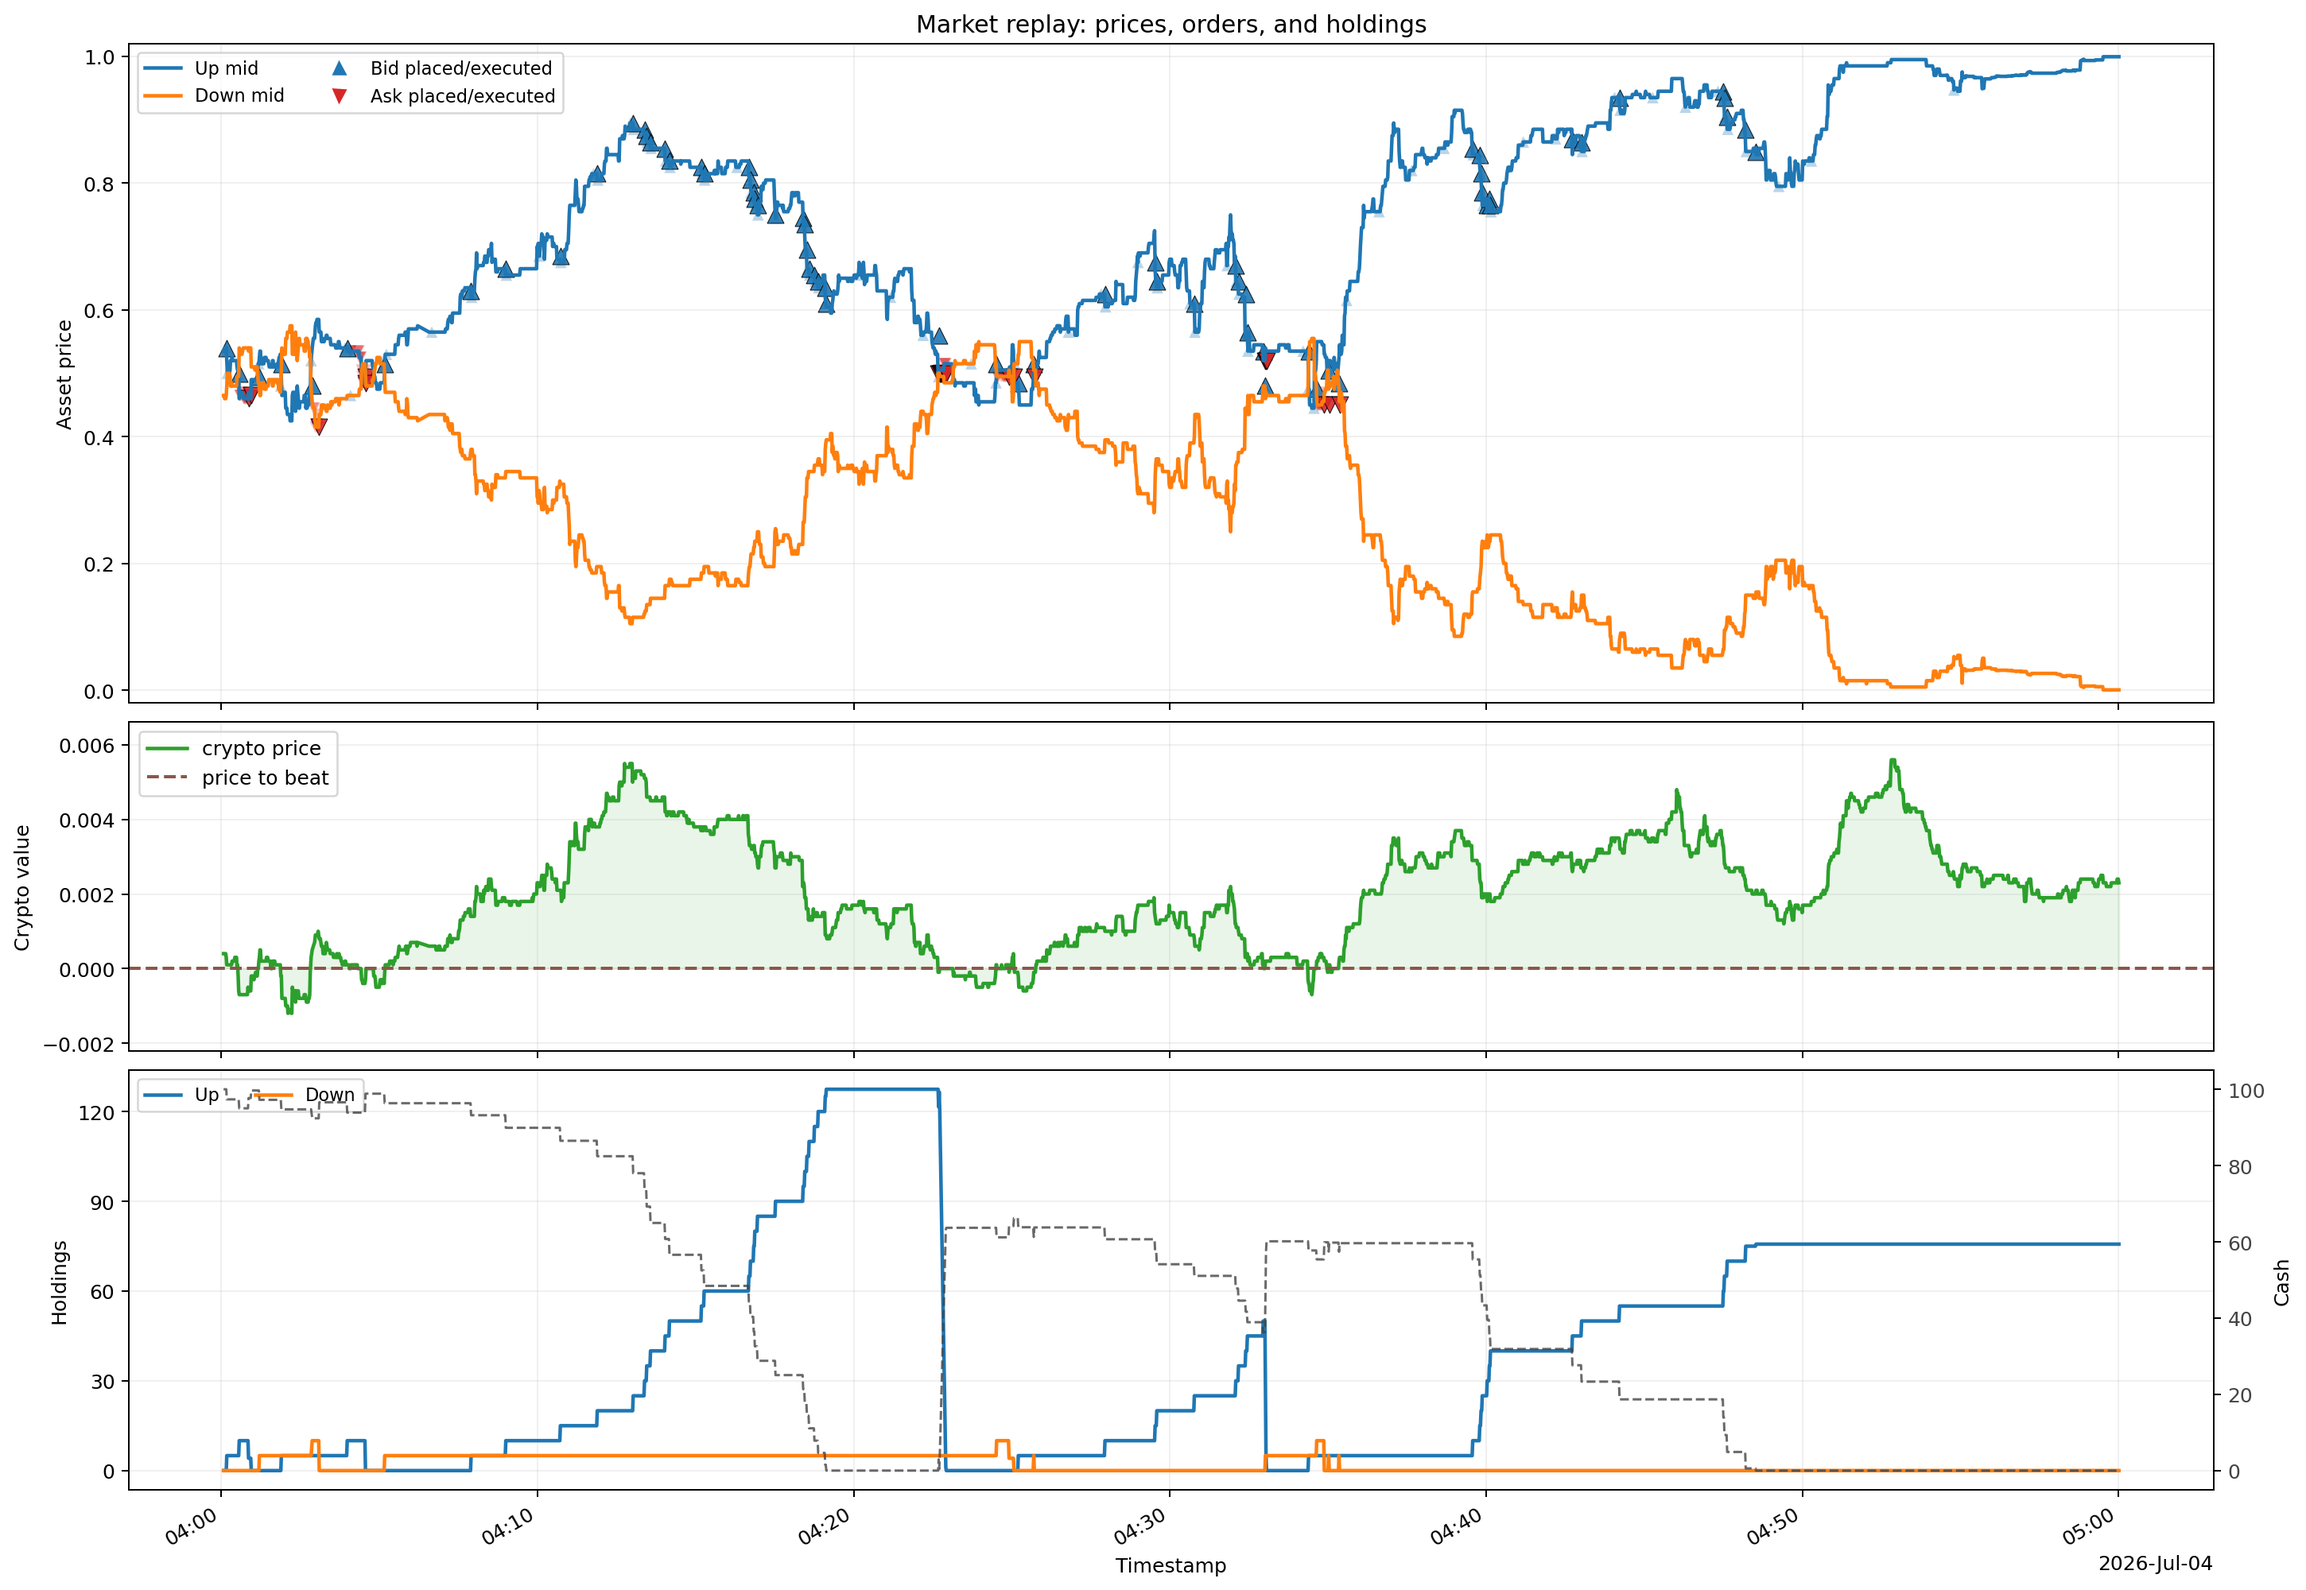
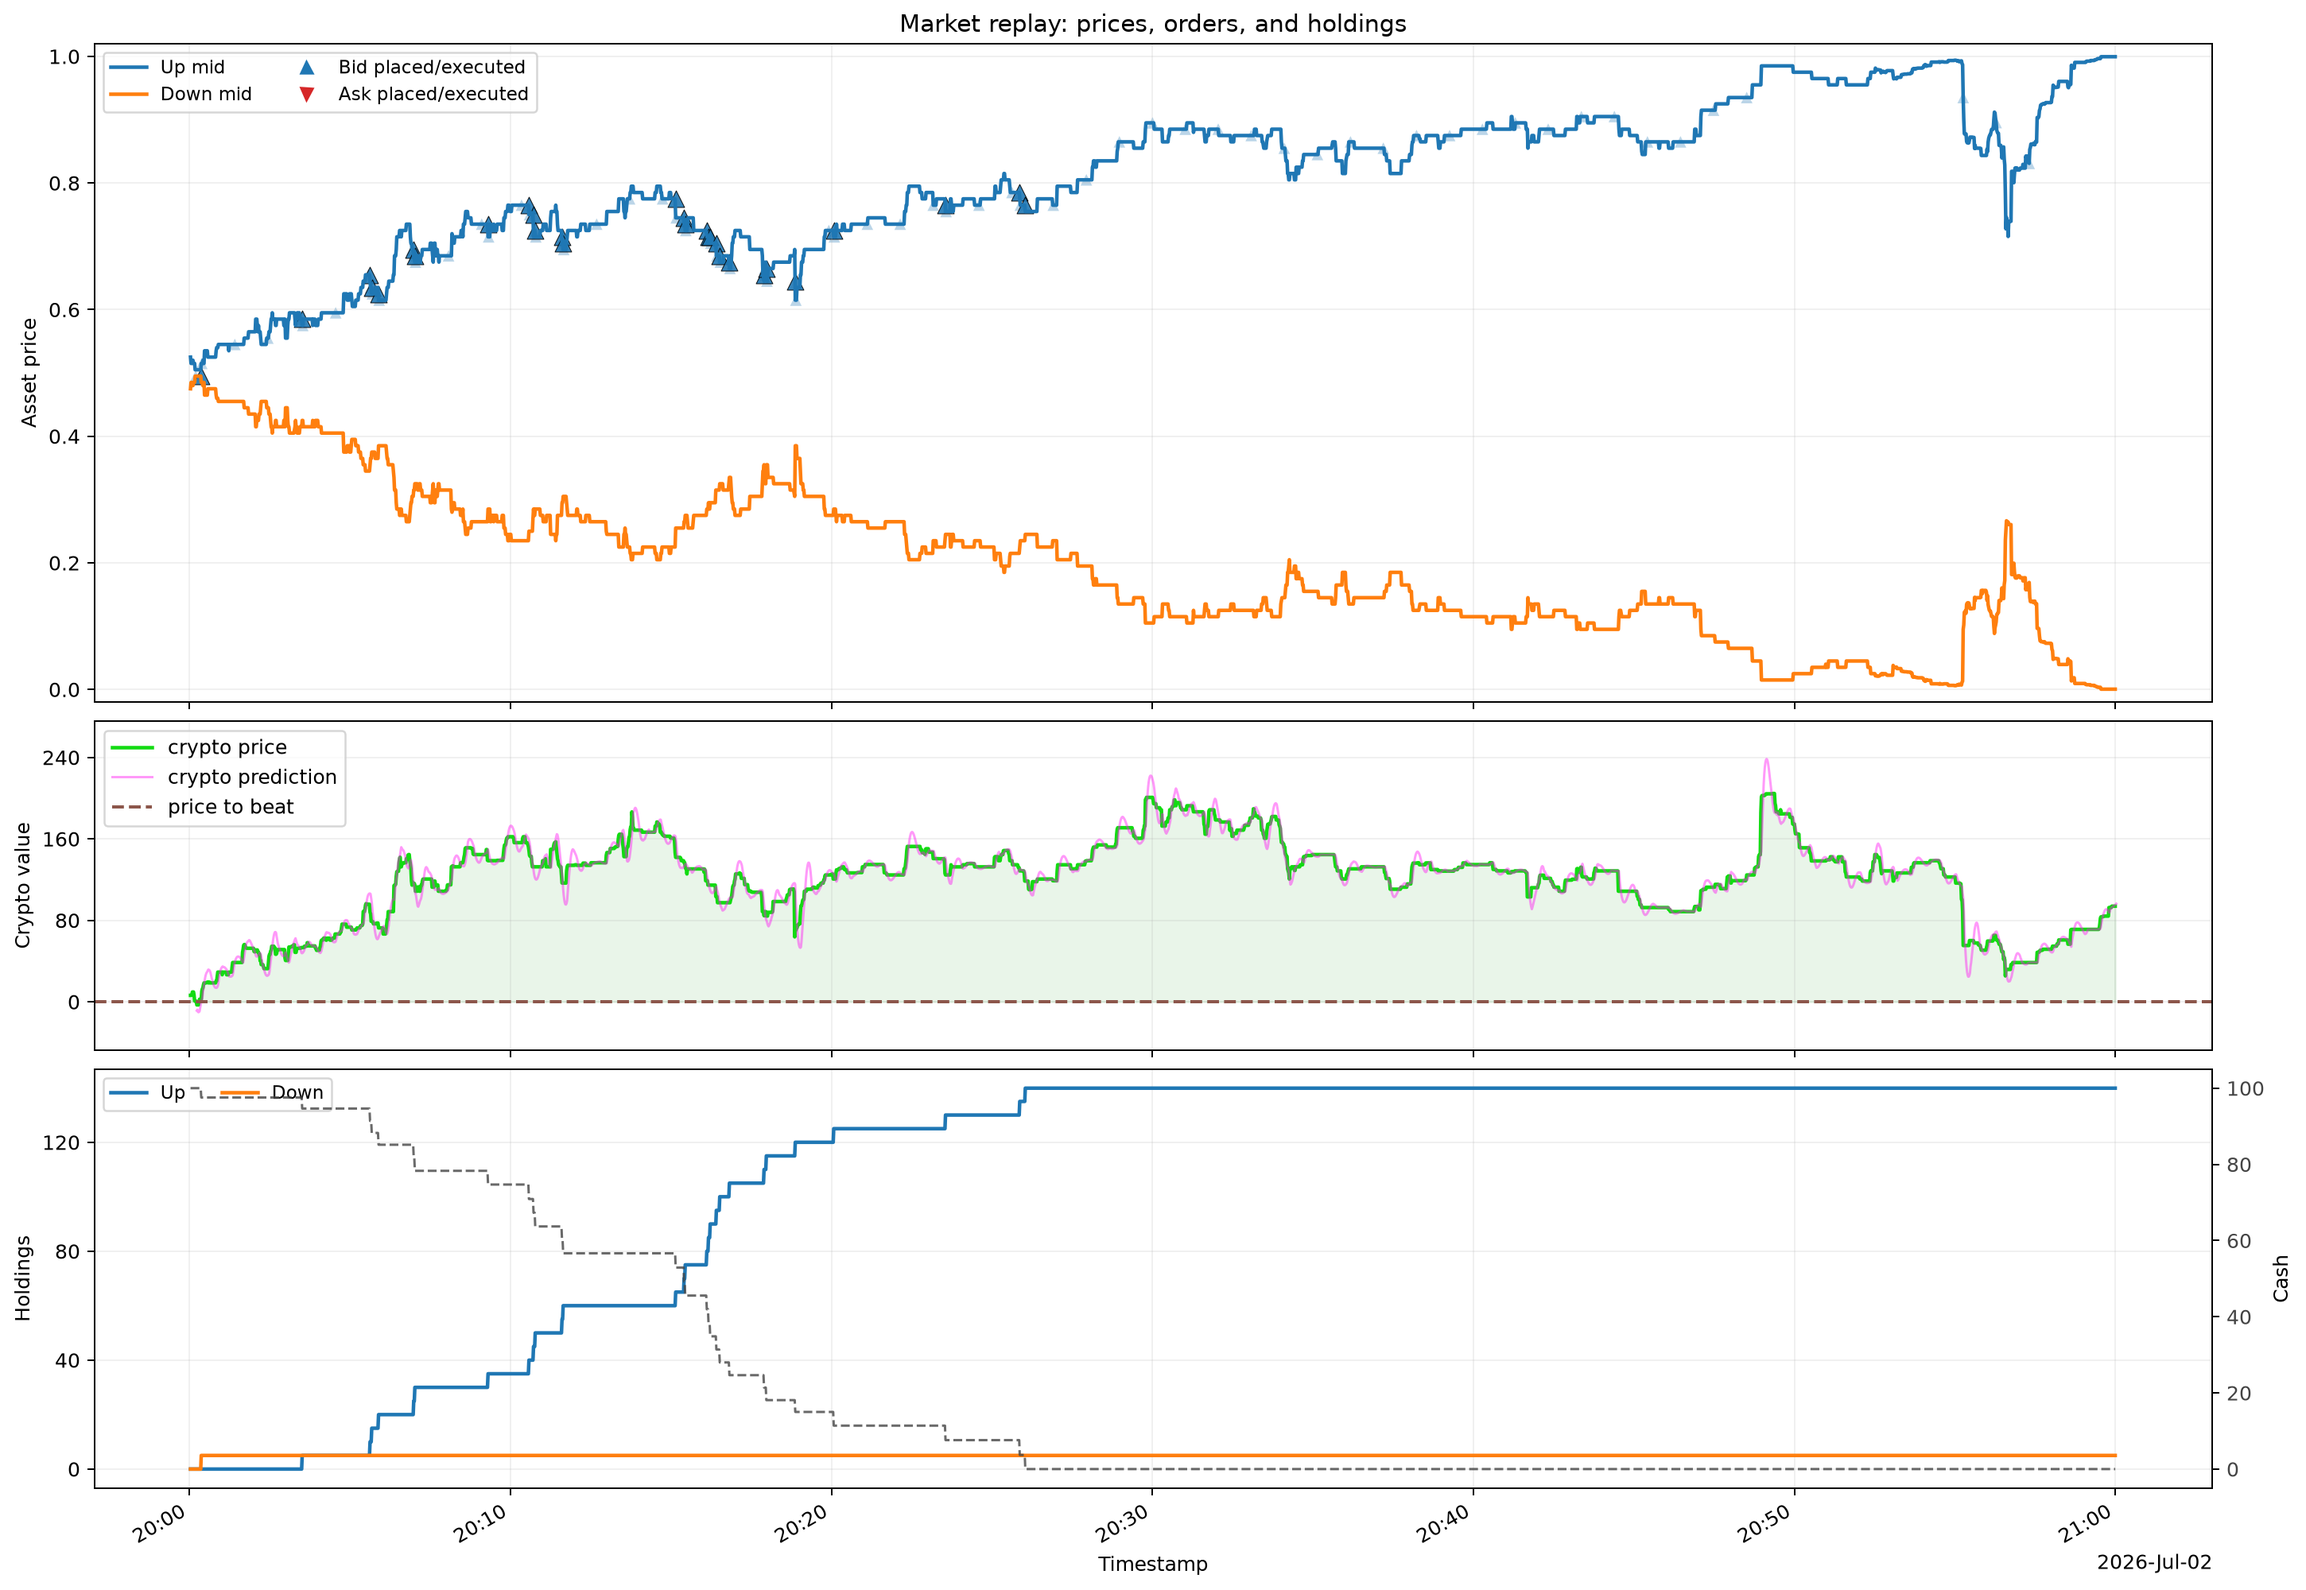
prediction added to graph

diff --git a/analytics/graph_drawer.py b/analytics/graph_drawer.py
@@ -1,7 +1,7 @@
 from __future__ import annotations
 
 from collections import defaultdict
-from datetime import datetime
+from datetime import datetime, timezone
 from pathlib import Path
 from typing import Any
 
@@ -25,7 +25,7 @@ def _coerce_number(value):
 	return value
 
 
-def _series_from_points(points, value_key="price"):
+def _series_from_points(points, value_key):
 	timestamps = []
 	values = []
 	for index, point in enumerate(points or []):
@@ -45,21 +45,33 @@ def _series_from_points(points, value_key="price"):
 
 
 def _timestamp_to_datetime(timestamp):
-	if timestamp is None:
-		return None
-	if isinstance(timestamp, datetime):
-		return timestamp
-	if isinstance(timestamp, (int, float)):
-		if abs(timestamp) >= 1_000_000_000_000:
-			return datetime.fromtimestamp(timestamp / 1000.0)
-		return datetime.fromtimestamp(timestamp)
-	if isinstance(timestamp, str):
-		try:
-			parsed = float(timestamp)
-			return _timestamp_to_datetime(parsed)
-		except ValueError:
-			return timestamp
-	return timestamp
+    if timestamp is None:
+        return None
+
+    if isinstance(timestamp, datetime):
+        return timestamp
+
+    if isinstance(timestamp, (int, float)):
+        if abs(timestamp) >= 1_000_000_000_000:
+            return datetime.fromtimestamp(timestamp / 1000)
+        return datetime.fromtimestamp(timestamp)
+
+    if isinstance(timestamp, str):
+        # unix timestamp stored as string
+        try:
+            return _timestamp_to_datetime(float(timestamp))
+        except ValueError:
+            pass
+
+        # ISO8601
+        try:
+            return datetime.fromisoformat(
+                timestamp.replace("Z", "+00:00")
+            )
+        except ValueError:
+            pass
+
+    raise ValueError(f"Unsupported timestamp: {timestamp!r}")
 
 
 def _set_dynamic_ylim(axis, values):
@@ -190,16 +202,27 @@ def draw_graph(analytics: dict, output_path: str | Path | None = None, show: boo
 
 	crypto_timestamps, crypto_values = _series_from_points(crypto_prices, value_key="price")
 	relative_crypto_values = [value - price_to_beat for value in crypto_values]
+	crypto_prediction_timestamps, crypto_prediction_values = _series_from_points(analytics.get("past_crypto_predictions", []), value_key="prediction")
+	crypto_prediction_values_relative = [value for value in crypto_prediction_values]
+
 	if crypto_timestamps and crypto_values:
 		ax_crypto.plot(
 			crypto_timestamps,
 			relative_crypto_values,
-			color="#2ca02c",
+			color="#12db12ff",
 			linewidth=1.8,
 			label="crypto price",
 		)
+		ax_crypto.plot(
+			crypto_prediction_timestamps,
+			crypto_prediction_values_relative,
+			color="#ff0ef36c",
+			linewidth=1.2,
+			label="crypto prediction",
+		)
 		ax_crypto.fill_between(crypto_timestamps, relative_crypto_values, color="#2ca02c", alpha=0.1)
 		_set_dynamic_ylim(ax_crypto, relative_crypto_values)
+	_set_dynamic_ylim(ax_crypto, crypto_prediction_values_relative)
 	if isinstance(price_to_beat, (int, float)):
 		ax_crypto.axhline(
 			0,

diff --git a/bot/k_strategy.py b/bot/k_strategy.py
@@ -26,12 +26,14 @@ class KStrategy(masterbot):
         self.money_reserved_for_down = 0.0
         self.up_shares = 0.0
         self.down_shares = 0.0
+        self.past_crypto_predictions = []
 
         #parameters
         self.time_volatility_alpha = 500
-        self.past_window_size = 25 * 1000 # 5 seconds
-        self.polynomial_degree = 4
+        self.past_window_size = 30 * 1000 # 5 seconds
+        self.polynomial_degree = 2
         self.investment_cash_percent = 0.1
+        self.lookahead_time = 500
         self.trend_alpha = 1
         self.price_difference_threshold = 0.05
         self.crypto_price_stdev = {"bitcoin-up-or-down": 50, "ethereum-up-or-down": 1.5, "solana-up-or-down": 0.0664, "xrp-up-or-down": 0.00164}  # Example values for standard deviation of crypto prices
@@ -50,6 +52,7 @@ class KStrategy(masterbot):
             self.past_crypto_values = deque()
             self.past_crypto_rel_timestamps = deque()
             self.first_run = False
+            self.past_crypto_predictions.clear()
     def actual_value(self, time_volatility, percentage_towards):
         return percentage_towards * time_volatility
 
@@ -109,7 +112,7 @@ class KStrategy(masterbot):
 
         self.update_cash_reservations()
         self.update_past_crypto_values()
-        if len(self.past_crypto_rel_timestamps) < 6:
+        if len(self.past_crypto_rel_timestamps) < 10:
             return  # Not enough data to make predictions yet
         self.up_shares = self.market.get_user_holdings().get(self.up_token_id, 0)
         self.down_shares = self.market.get_user_holdings().get(self.down_token_id, 0)
@@ -126,8 +129,12 @@ class KStrategy(masterbot):
         crypto_current_stdev /= time_factor
 
         current_rel_timestamp = (self.data_provider.get_current_timestamp() - self.data_provider.get_end_timestamp())
-        lookahead_time = 500  + current_rel_timestamp # 5 minutes in milliseconds
-        crypto_trend_stdev = self.predict_future_crypto_value(lookahead_time) / self.crypto_price_stdev.get(self.market.base_name)
+
+        lookahead_timestamp = self.lookahead_time  + current_rel_timestamp # 5 minutes in milliseconds
+        crypto_prediction = self.predict_future_crypto_value(lookahead_timestamp)
+        self.past_crypto_predictions.append({"timestamp": self.data_provider.get_current_timestamp() + self.lookahead_time, "prediction": crypto_prediction})
+
+        crypto_trend_stdev = crypto_prediction / self.crypto_price_stdev.get(self.market.base_name)
         #print(f"Crypto trend stdev: {crypto_trend_stdev:.6f}")
         final_crypto_estimate = crypto_current_stdev + crypto_trend_stdev * self.trend_alpha
 

diff --git a/evaluator/replay_engine.py b/evaluator/replay_engine.py
@@ -179,6 +179,7 @@ class replay_engine:
             "resolution" : resolution,
             "mid_prices" : mid_prices,
             "crypto_prices" : crypto_prices,
+            "past_crypto_predictions" : self.bot.past_crypto_predictions if hasattr(self.bot, 'past_crypto_predictions') else []
         }
         return analytics
     @staticmethod
